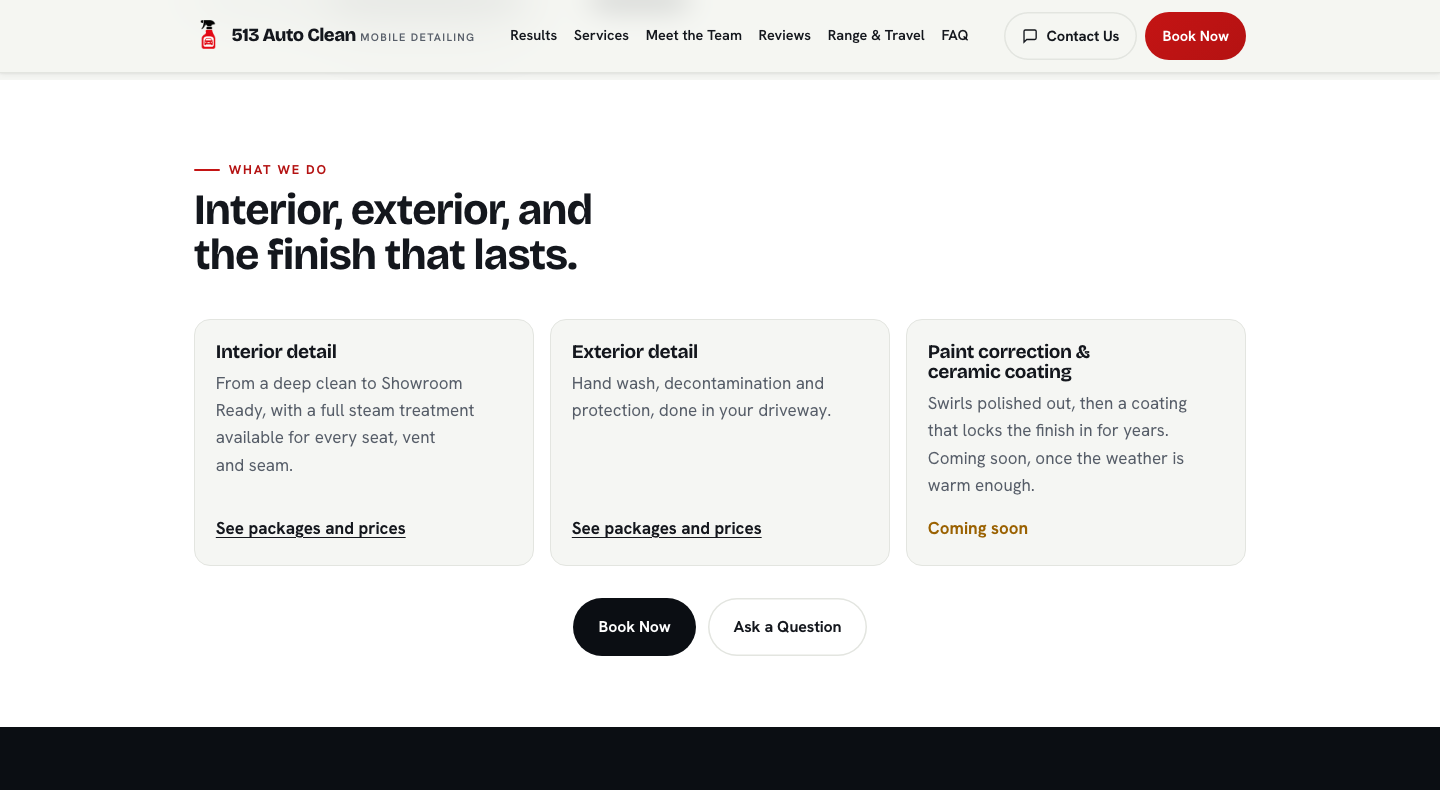
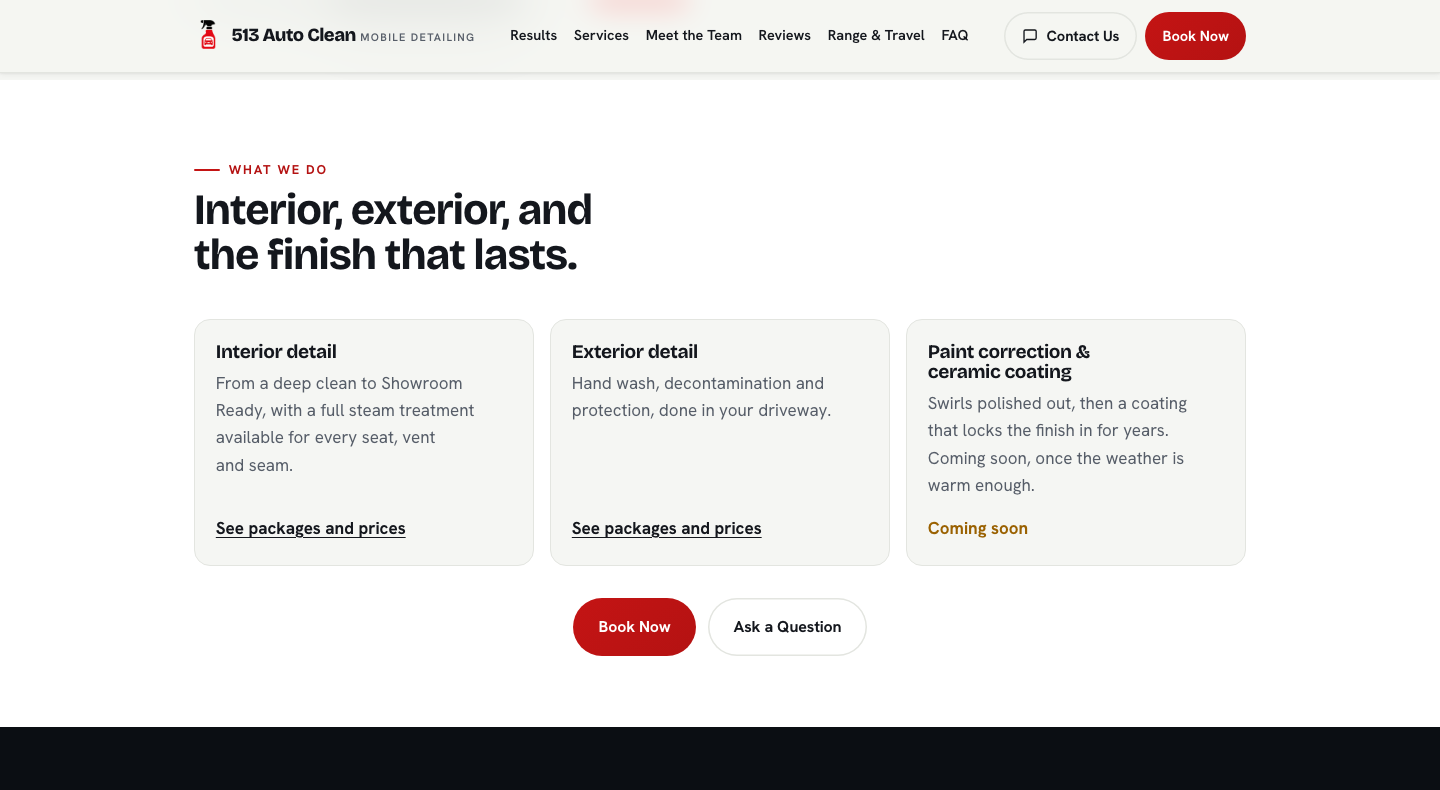
Landing pages approved: /golf and /prestige lead to lp-golf.html and lp-prestige.html; Book Now red (btn-primary) on both

Changed region(s): [[0.375, 0.7595, 0.5, 0.8506]]

diff --git a/lp-prestige.html b/lp-prestige.html
@@ -122,8 +122,7 @@
 
 <main>
 <!-- Landing page for the prestige QR code (513autoclean.com/prestige, marketing/qr).
-     DRAFT for the owner's approval: until it is approved, /prestige still
-     redirects to the home page (netlify.toml). Then point that redirect here.
+     Approved by the owner, November 11: /prestige redirects here (netlify.toml).
      Not in the sitemap, and noindex: it is for people holding the print piece. -->
 <section class="about" id="story">
   <div class="wrap">
@@ -154,7 +153,7 @@
           <div class="promise reveal" data-d="3"><svg viewBox="0 0 24 24" fill="none" stroke="currentColor" stroke-width="2.2"><path d="M20 6L9 17l-5-5"/></svg> Make-it-right guarantee, if anything&#39;s off after we leave, we come back</div>
         </div>
         <div class="reveal lp-cta" data-d="3">
-          <a class="btn btn-ink" href="book.html">Book Now</a>
+          <a class="btn btn-primary" href="book.html">Book Now</a>
           <a class="btn btn-ghost" href="about.html#reviews">Read the reviews</a>
         </div>
       </div>
@@ -186,7 +185,7 @@
       </div>
     </div>
     <div class="lp-cta lp-cta-end reveal">
-      <a class="btn btn-ink" href="book.html">Book Now</a>
+      <a class="btn btn-primary" href="book.html">Book Now</a>
       <a class="btn btn-ghost" href="contact.html">Ask a Question</a>
     </div>
   </div>

diff --git a/lp-golf.html b/lp-golf.html
@@ -122,8 +122,7 @@
 
 <main>
 <!-- Landing page for the golf QR code (513autoclean.com/golf, marketing/qr).
-     DRAFT for the owner's approval: until it is approved, /golf still
-     redirects to the home page (netlify.toml). Then point that redirect here.
+     Approved by the owner, November 11: /golf redirects here (netlify.toml).
      Not in the sitemap, and noindex: it is for people holding the print piece. -->
 <section class="about" id="story">
   <div class="wrap">
@@ -155,7 +154,7 @@
           <div class="promise reveal" data-d="3"><svg viewBox="0 0 24 24" fill="none" stroke="currentColor" stroke-width="2.2"><path d="M20 6L9 17l-5-5"/></svg> Make-it-right guarantee, if anything&#39;s off after we leave, we come back</div>
         </div>
         <div class="reveal lp-cta" data-d="3">
-          <a class="btn btn-ink" href="book.html">Book Now</a>
+          <a class="btn btn-primary" href="book.html">Book Now</a>
           <a class="btn btn-ghost" href="about.html#reviews">Read the reviews</a>
         </div>
       </div>
@@ -187,7 +186,7 @@
       </div>
     </div>
     <div class="lp-cta lp-cta-end reveal">
-      <a class="btn btn-ink" href="book.html">Book Now</a>
+      <a class="btn btn-primary" href="book.html">Book Now</a>
       <a class="btn btn-ghost" href="contact.html">Ask a Question</a>
     </div>
   </div>

diff --git a/docs/SESSION-CHANGES-pipeline.md b/docs/SESSION-CHANGES-pipeline.md
@@ -81,7 +81,12 @@ Built overnight, November 10 to 11, for you to evaluate. It combines your 8 answ
 - **Also confirmed in Netlify:** `GOOGLE_BUSY_ONLY_CALENDAR_IDS` is set (the review's top condition), and `DETAILERS` is set. The owner confirmed Kris goes live with the new site.
 - **`check-live.mjs`:** read keys only in single quotes, but the published `config.js` is minified with double quotes, so every live key read "not set". It now matches either quote, and also checks GA4 and Clarity.
 
-### Draft print landing pages: `lp-golf.html`, `lp-prestige.html` (for the owner's approval)
+### Print landing pages approved; /golf and /prestige now lead to them (owner, November 11)
+- **Redirects:** `/golf` goes to `lp-golf.html` and `/prestige` to `lp-prestige.html`, still 302 and still tagged (`utm_source`, `utm_medium=print`, `utm_campaign=qr`). `printed-qr.test.ts` passes.
+- **Book Now is red** (`btn-primary`) on both pages (owner: standard, and it stands out), matching the header and the phone bar. "Read the reviews" and "Ask a Question" stay ghost buttons.
+- **To test on the deploy preview:** `/golf` and `/prestige` answer 302 and open their pages; a booking made from there names the source in its email.
+
+### Draft print landing pages: `lp-golf.html`, `lp-prestige.html`
 - **What:** the owner's brief: lead with the story (a UC student's business, five-star reviews), then three options (interior, exterior, paint correction with protection, shown as coming soon).
   - Golf: "Get your car detailed while you play", at home, at the office, or at the course (the owner says the club car park is fine until told otherwise).
   - Prestige Living: "A showroom finish, at your door", with steam treatment and ceramic coating mentioned.

diff --git a/marketing/qr/README.md b/marketing/qr/README.md
@@ -22,7 +22,7 @@ Made November 11, 2026, for the two print pieces, from the owner's recorded answ
 
 ## Why these won't break
 
-- **The codes hold only a short address on our own domain.** Where that address leads is set in `netlify.toml` and can change at any time without reprinting. Today `/golf` and `/prestige` land on the home page, tagged so analytics and the booking email name the source. A `golf.html` or `prestige.html` page takes over its address on its own.
+- **The codes hold only a short address on our own domain.** Where that address leads is set in `netlify.toml` and can change at any time without reprinting. Since November 11 (owner approved), `/golf` leads to `lp-golf.html` and `/prestige` to `lp-prestige.html`, tagged so analytics and the booking email name the source.
 - **Highest error correction (H):** up to 30% of the code can be scuffed, torn or dirty and it still scans. Tested with the zxing scanner engine: both codes read after the corner was torn off, a patch in the middle was whited out, a black scratch was drawn across, after heavy blur, and at 0.33 inch.
 - **A test guards the addresses.** `web/lib/site/printed-qr.test.ts` fails if either address stops leading somewhere, if a redirect becomes a 301 (a browser keeps a 301 forever, so a later change would never reach anyone who had scanned once), if the generator's addresses change, or if any file below changes.
 - **The files are rebuilt byte for byte** by `python3 marketing/qr/make_qr.py` (needs `pip install segno`), so they can always be remade identically.
